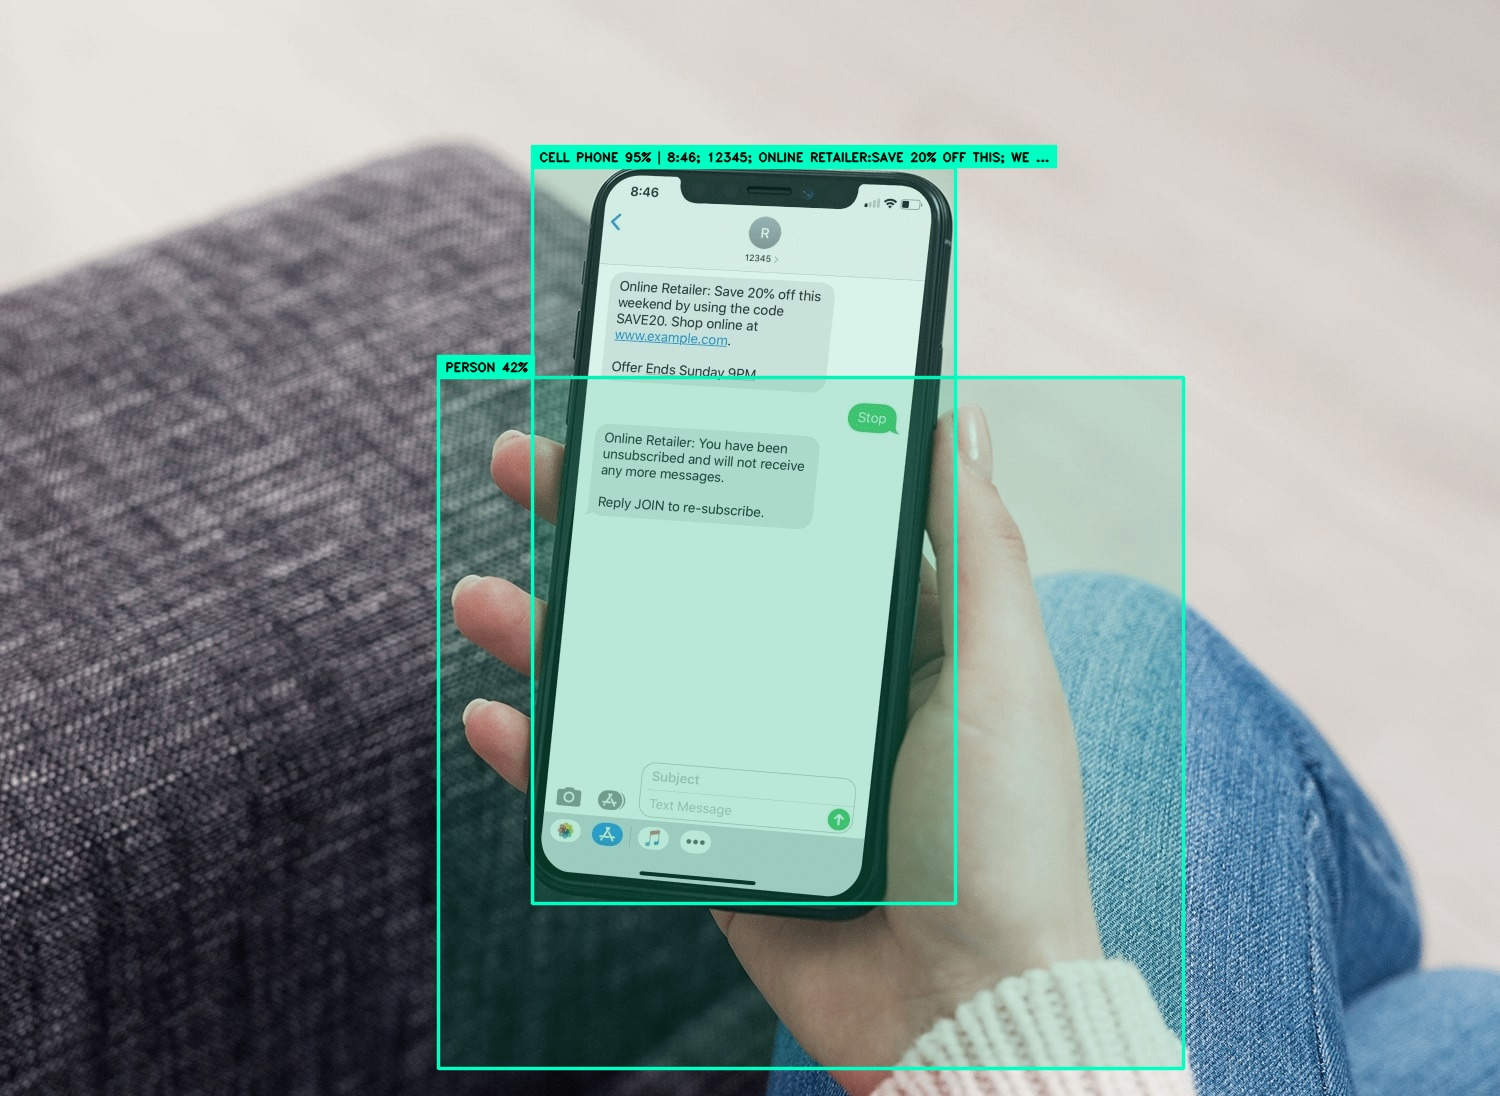
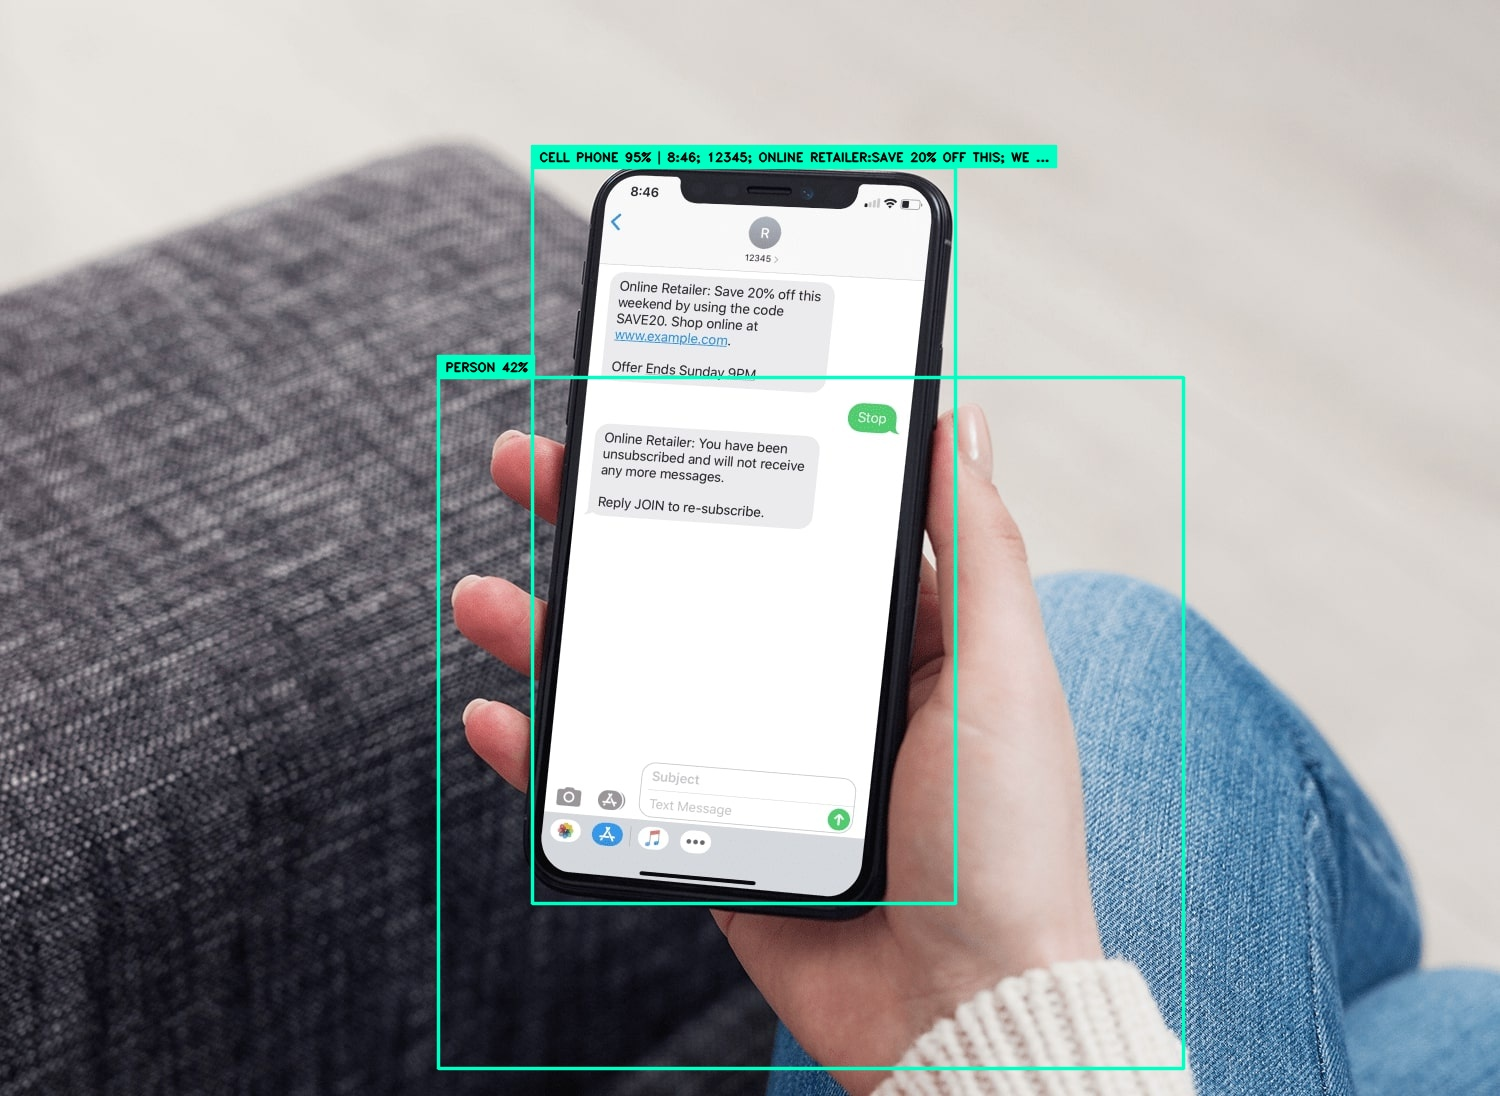
OCR video detection working

diff --git a/ocr_video.py b/ocr_video.py
@@ -1,0 +1,67 @@
+from algorithm.object_detector import YOLOv7
+from utils.detections import draw
+from tqdm import tqdm
+import cv2
+
+yolov7 = YOLOv7()
+yolov7.load('best.weights', classes='classes.yaml', device='cpu') # use 'gpu' for CUDA GPU inference
+ocr_classes=['license-plate']
+yolov7.set(ocr_classes=ocr_classes)
+
+video = cv2.VideoCapture('vehicles.mp4')
+width  = int(video.get(cv2.CAP_PROP_FRAME_WIDTH))
+height = int(video.get(cv2.CAP_PROP_FRAME_HEIGHT))
+fps = int(video.get(cv2.CAP_PROP_FPS))
+frames_count = int(video.get(cv2.CAP_PROP_FRAME_COUNT))
+fourcc = cv2.VideoWriter_fourcc('m', 'p', '4', 'v')
+output = cv2.VideoWriter('output.mp4', fourcc, fps, (width, height))
+
+if video.isOpened() == False:
+	print('[!] error opening the video')
+
+print('[+] started reading text on the video...\n')
+pbar = tqdm(total=frames_count, unit=' frames', dynamic_ncols=True, position=0, leave=True)
+texts = {}
+
+try:
+    while video.isOpened():
+        ret, frame = video.read()
+        if ret == True:
+            detections = yolov7.detect(frame, track=True)
+            
+            for detection in detections:
+                if detection['class'] in ocr_classes:
+                    detection_id = detection['id']
+                    text = detection['text']
+                    if len(text) > 0:
+                        if detection_id not in texts:
+                            texts[detection_id] = {
+                                'most_frequent':{
+                                    'value':'', 
+                                    'count':0
+                                }, 
+                                'all':{}
+                            }
+                        
+                        if text not in texts[detection_id]['all']:
+                            texts[detection_id]['all'][text] = 0
+                        
+                        texts[detection_id]['all'][text] += 1
+
+                        if texts[detection_id]['all'][text] > texts[detection_id]['most_frequent']['count']:
+                            texts[detection_id]['most_frequent']['value'] = text
+                            texts[detection_id]['most_frequent']['count'] = texts[detection_id]['all'][text]
+                
+                    if detection_id in texts:
+                        detection['text'] = texts[detection_id]['most_frequent']['value']
+
+            detected_frame = draw(frame, detections)
+            output.write(detected_frame)
+            pbar.update(1)
+except KeyboardInterrupt:
+    pass
+
+pbar.close()
+video.release()
+output.release()
+yolov7.unload()

diff --git a/utils/detections.py b/utils/detections.py
@@ -121,9 +121,11 @@ def draw(image, detections):
         class_name = box['class']
         conf = box['confidence']
         text = ''
-        if 'text' in box and len(box['text']) > 50:
-            text = box['text'][:50] + ' ...'
-        label = (str(box['id']) + '. ' if 'id' in box else '') + class_name + ' ' + str(int(conf*100)) + '%' + (' | ' + text if ('text' in box and box['text']) else '')
+        if 'text' in box:
+            text = box['text']
+            if len(text) > 50:
+                text = text[:50] + ' ...'
+        label = (str(box['id']) + '. ' if 'id' in box else '') + class_name + ' ' + str(int(conf*100)) + '%' + ((' | ' + text) if ('text' in box and len(box['text']) > 0 and not box['text'].isspace()) else '')
         width = box['width']
         height = box['height']
         color = box['color']

diff --git a/algorithm/object_detector.py b/algorithm/object_detector.py
@@ -82,6 +82,11 @@ class YOLOv7:
                 for detection in detections:
                     if detection['class'] in self.settings['ocr_classes']:
                         cropped_box = crop(im0, detection)
-                        detection['text'] = ocr.read(cropped_box)
+                        text = ''
+                        try:
+                            text = ocr.read(cropped_box)
+                        except:
+                            pass
+                        detection['text'] = text
             
             return detections
